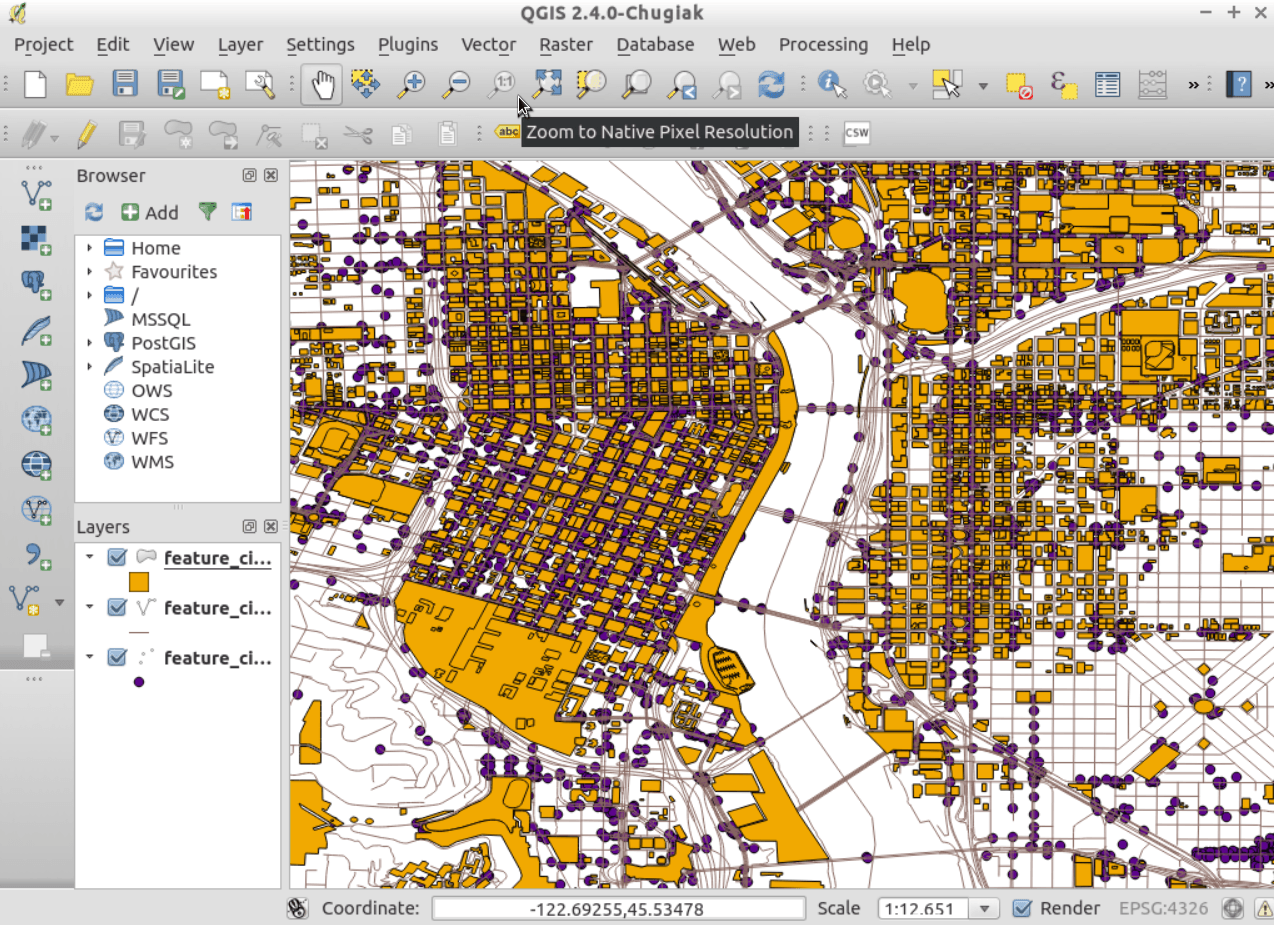
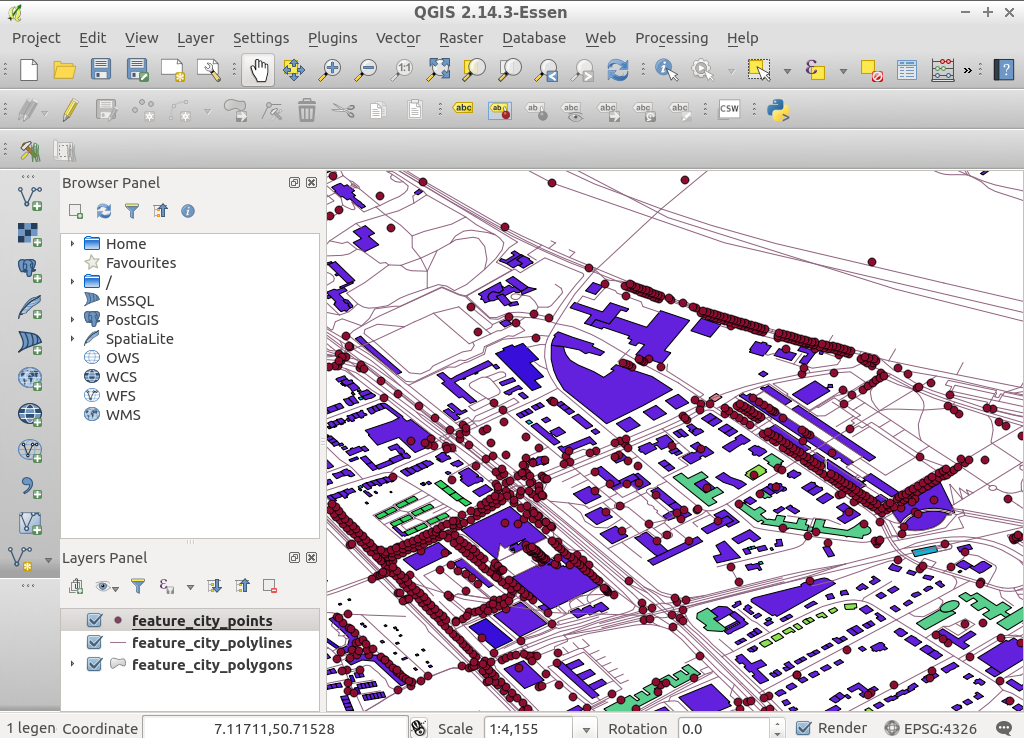
updated qgis review, changed osm part screenshots, get an error in  grass part

diff --git a/en/quickstart/qgis_quickstart.rst b/en/quickstart/qgis_quickstart.rst
@@ -4,7 +4,7 @@
 :Author: Zoltan Siki
 :Reviewer: Cameron Shorter, LISAsoft
 :Reviewer: Nicolas Roelandt
-:Version: osgeo-live9.5
+:Version: osgeo-live10.0
 :License: Creative Commons Attribution-ShareAlike 3.0 Unported  (CC BY-SA 3.0)
 
 .. TBD: Cameron's review comments:
@@ -102,7 +102,8 @@ Let's now create a new QGIS project and load our own data.
 
 #. Choose :menuselection:`Project --> New`. You will be asked whether to save the previous project, you can press :guilabel:`Close without Saving`.
 
-#. Click :menuselection:`Layer --> Add Layer--> Add Vector Layer...`.
+#. Click :menuselection:`Layer --> Add Layer--> Add Vector Layer...` Or click on the 'Add Vector Layer' button (the one with the 'V' shape, in the red rectangle in the image).
+You can also use the keyboard shortcut 'Ctrl+Shift+V' 
 
      .. image:: ../../images/screenshots/1024x768/qgis_add_layer.png
         :scale: 70
@@ -127,11 +128,11 @@ Let's now include a layer from a Postgres database.
 #. In the layer list on the left, untick the ``ne_10m_admin_0_countries`` visibility
    check box to temporarily hide it.
 
-   .. image:: ../../images/screenshots/800x600/qgis_postgis_connect.png
-      :scale: 70 %
-      :alt: Connecting to a PostGIS DB
+
 
 #. Choose :menuselection:`Layer --> Add Layers --> Add PostGIS Layers...`.
+
+   *You can also click on the icon with the elephant head in the left panel or use the keyboard shortcut 'Ctrl+Shift+D'
 
    * Both Natural Earth and OpenStreetMap Postgis databases
      are already available; we will be using use the Natural Earth database.
@@ -142,6 +143,10 @@ Let's now include a layer from a Postgres database.
 click on the Public schema to deploy it:
 
   * A list of database tables will appear.
+
+   .. image:: ../../images/screenshots/800x600/qgis_postgis_connect.png
+      :scale: 70 %
+      :alt: Connecting to a PostGIS DB
 
 #. Select ``ne_10_populated_places`` and click :guilabel:`Add`.
 
@@ -302,7 +307,7 @@ Importing OpenStreetMap data
 #. Choose :menuselection:`Vector --> OpenStreetMap --> Import topology from XML`.
 
 #. Click on the "..." button next to "Input XML file (.osm)" and select
-   the `feature_city_CBD.osm` file you just copied into the home directory.
+   the `feature_city.osm` file you just copied into the home directory.
    The "Output SpatialLite DB file" name will be automatically set. Click
    :guilabel:`Ok` to convert the dataset to SpatiaLite format and create
    a connection to the SpatialLite DB within QGIS.
@@ -310,7 +315,7 @@ Importing OpenStreetMap data
 #. Next we need to extract points, lines, and areas, then add topology to
    each of these three new layers. To do this we need to run the tool three times.
    Select :menuselection:`Vector --> OpenStreetMap --> Export toplogy to SpatiaLite` and
-   use the "..." button to select the newly created `feature_city_CBD.osm.db` file.
+   use the "..." button to select the newly created `feature_city.osm.db` file.
    The `Output layer name` will be automatically filled in for you depending
    on the `Export type` selected. Click the :guilabel:`Load from DB` button
    to load in the available tags. For the "points" layer tick the `amentity` box;
@@ -324,9 +329,9 @@ Importing OpenStreetMap data
 #. Once topology is loaded, you can also refine the SpatiaLite layer by
    querying just certain features from within it.
    Select :menuselection:`Layer --> Add Layer --> Add SpatiaLite Layer...` from the
-   menu and from the `Databases` list select `feature_city_CBD@...` and
+   menu and from the `Databases` list select `feature_city@...` and
    then click on :guilabel:`Connect`. Double click on
-   the `feature_city_cbd_polylines` table and then double click on "highway"
+   the `feature_city_polylines` table and then double click on "highway"
    to start building your SQL query. Then click on the :guilabel:`=` button,
    then the :guilabel:`All` button, and double click on `motorway` from the
    Values list. Click the :guilabel:`Test` button to verify the result,
@@ -334,6 +339,10 @@ Importing OpenStreetMap data
    window click :guilabel:`Add` to restrict the rendering to just major
    highways. You can repeat this process with new layers to render different
    road types with different widths and styles.
+
+   .. image:: ../../images/screenshots/1024x768/QGIS_spatialite_add_layer.png
+     :scale: 50 %
+     :alt:  The OpenStreetMap add layer
 
 #. You can now explore this rich dataset. Use the ``i`` information cursor
    button in the QGIS toolbar to query individal map features.
